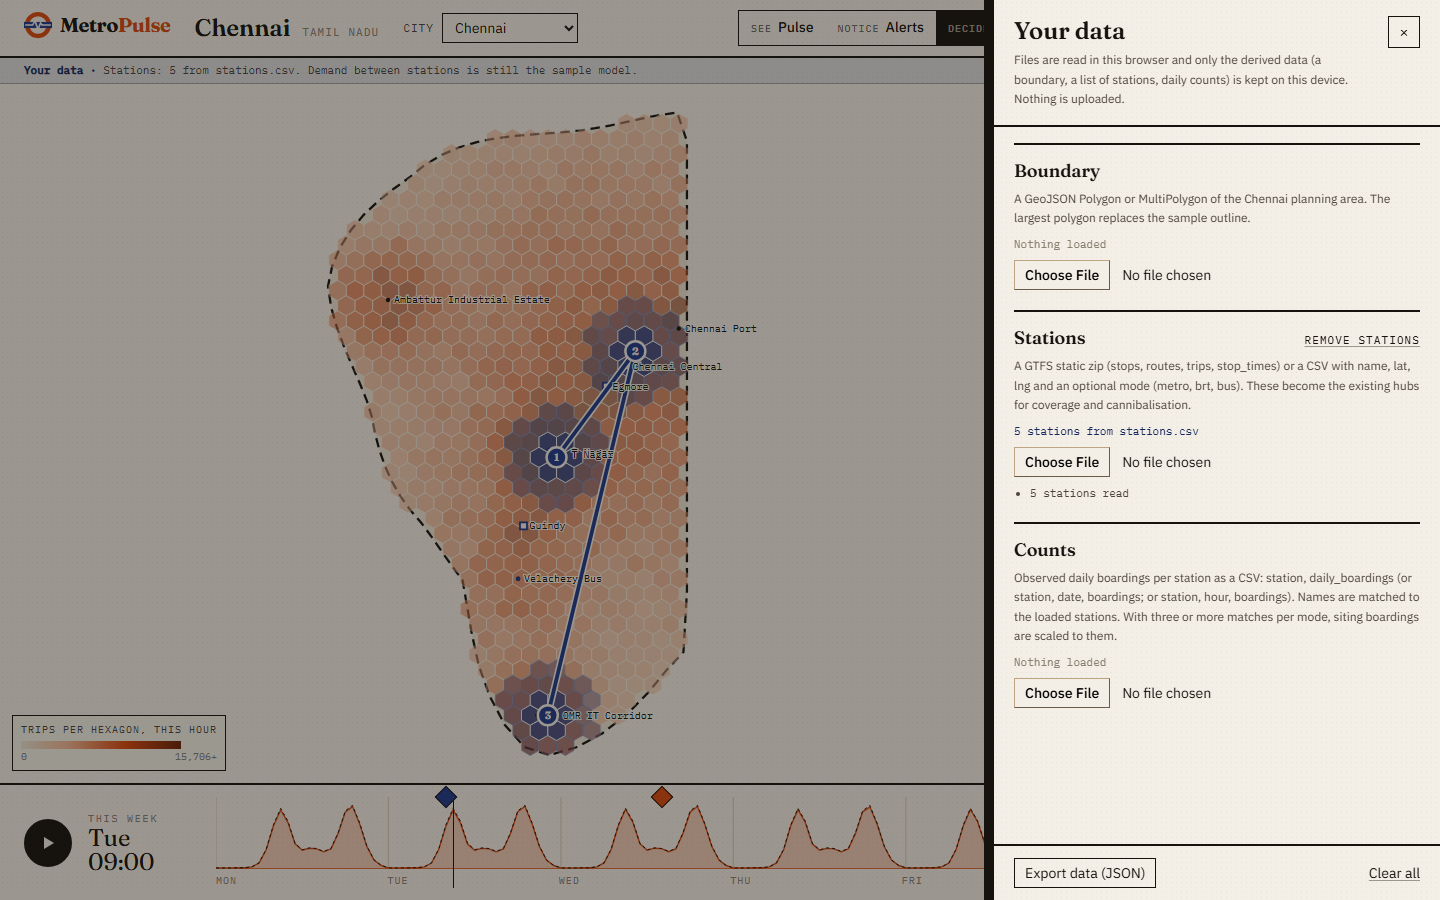
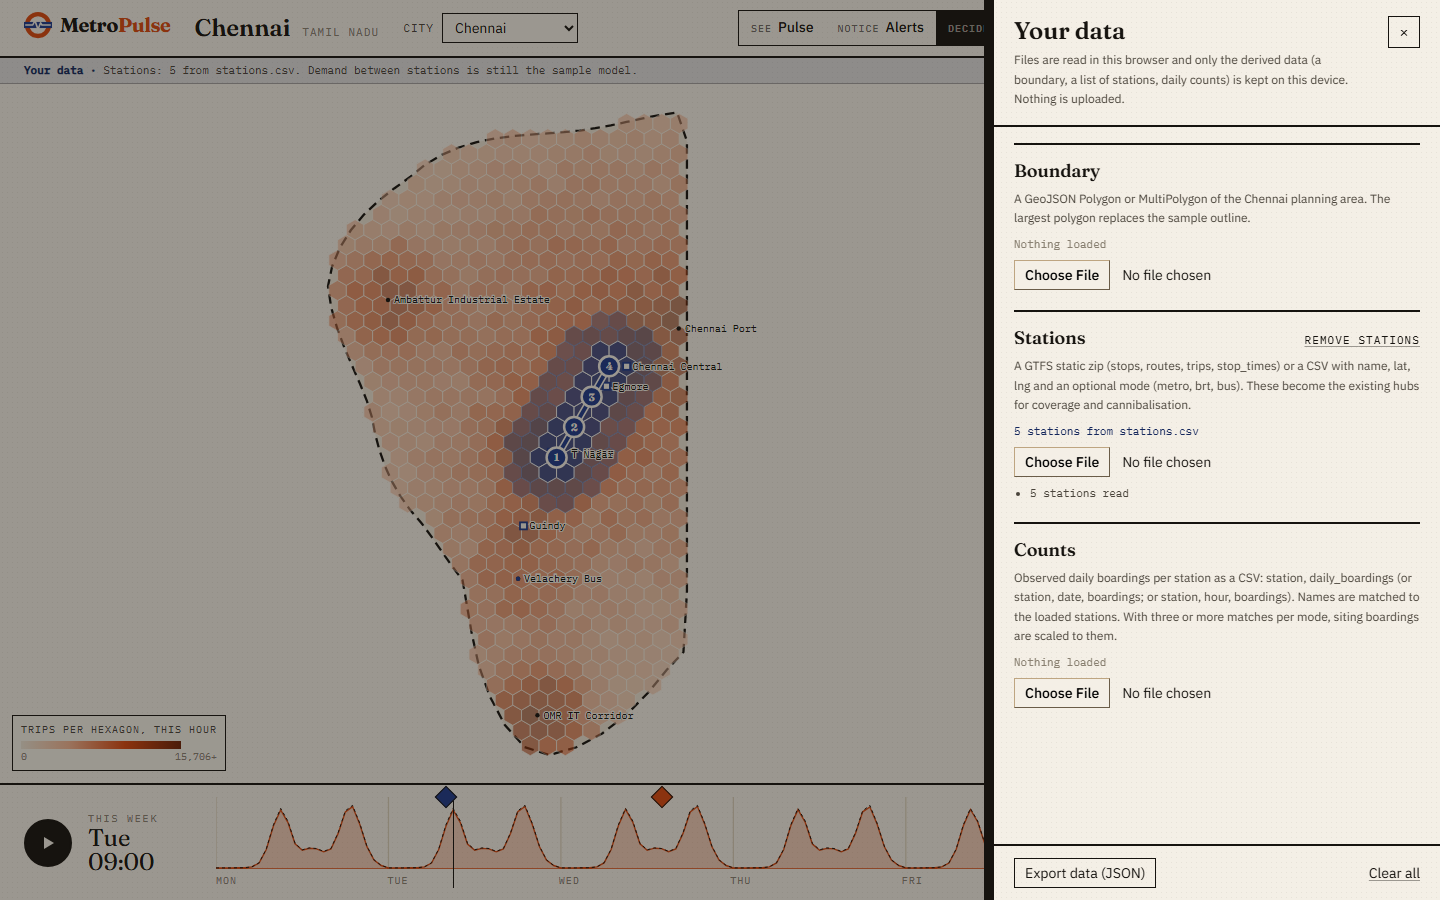
feat(scenario): corridor-constrained suggestion; close the review's minor findings (store sync, drawer races, calibration edge cases, GTFS route types, model cache bound, per-mode coverage, briefing link notice)

Changed region(s): [[0.3438, 0.3111, 0.5, 0.6222], [0.3438, 0.6222, 0.4375, 0.84]]

diff --git a/frontend/src/lib/pulse/scenario.ts b/frontend/src/lib/pulse/scenario.ts
@@ -13,7 +13,7 @@
  */
 import { getCity, hexDistanceKm, Point } from "./geo";
 import type { CityModel } from "./model";
-import { catchment, Coverage, existingCoverage, ModeId, MODES, scoreSite, SiteResult, Suggestion, walkCoverage } from "./siting";
+import { catchment, Coverage, existingCoverage, ModeId, MODES, scoreSite, SiteResult, Suggestion, suggestSites, walkCoverage } from "./siting";
 
 export type Alignment = "elevated" | "underground" | "at-grade";
 
@@ -212,6 +212,59 @@ export function decodeScenario(text: string, cityId: string, centre?: [number, n
 function cityCentre(cityId: string): [number, number] | null {
   const city = getCity(cityId);
   return city ? city.center : null;
+}
+
+/**
+ * A corridor, not a hub network: the first station is the best single site; each next station
+ * is the cell inside the spacing band of the previous one that adds the most new boardings,
+ * with coverage updated as the line grows. Stops early if no cell in the band adds anything.
+ */
+export function suggestCorridor(model: CityModel, modeId: ModeId, k = 4): Scenario {
+  const mode = MODES[modeId];
+  const [minKm, maxKm] = SPACING_KM[modeId];
+  const covered = new Float32Array(existingCoverage(model));
+  const picks: Point[] = [];
+  const first = suggestSites(model, modeId, 1, covered, model.calibration)[0];
+  if (first) {
+    const c = model.grid.cells[first.cell];
+    picks.push({ x: c.x, y: c.y });
+    const feeder = catchment(model.grid, c, mode.feederKm);
+    serve(covered, feeder.cells, feeder.weights);
+  }
+  while (picks.length > 0 && picks.length < k) {
+    const last = picks[picks.length - 1];
+    let best: Point | null = null;
+    let bestValue = 0;
+    for (const idx of model.grid.within(last.x, last.y, maxKm)) {
+      const c = model.grid.cells[idx];
+      const d = hexDistanceKm(last, c);
+      if (d < minKm || d > maxKm) continue;
+      if (picks.some((p) => hexDistanceKm(p, c) < minKm)) continue;
+      const v = scoreSite(model, c, modeId, covered, model.calibration).newBoardings;
+      if (v > bestValue) {
+        bestValue = v;
+        best = { x: c.x, y: c.y };
+      }
+    }
+    if (!best) break;
+    picks.push(best);
+    const feeder = catchment(model.grid, best, mode.feederKm);
+    serve(covered, feeder.cells, feeder.weights);
+  }
+  const now = new Date().toISOString();
+  return {
+    id: newScenarioId(),
+    cityId: model.city.id,
+    name: `Suggested ${mode.label.split(" ")[0].toLowerCase()} corridor`,
+    mode: modeId,
+    alignment: "elevated",
+    stations: picks.map((p) => {
+      const { lat, lng } = model.grid.unproject(p);
+      return { lat: Math.round(lat * 1e4) / 1e4, lng: Math.round(lng * 1e4) / 1e4 };
+    }),
+    createdAt: now,
+    updatedAt: now,
+  };
 }
 
 export function scenarioFromSuggestions(model: CityModel, modeId: ModeId, picks: Suggestion[]): Scenario {

diff --git a/frontend/src/components/desk/DataDrawer.tsx b/frontend/src/components/desk/DataDrawer.tsx
@@ -136,6 +136,9 @@ export function DataDrawer({ open, city, model, data, onChange, onClose }: Props
   const [reports, setReports] = useState<Partial<Record<SectionId, string[]>>>({});
   const [busy, setBusy] = useState<SectionId | null>(null);
   const panel = useRef<HTMLDivElement>(null);
+  // Uploads are async; a second file must build on whatever the first one produced.
+  const latest = useRef<CityData | null>(data);
+  latest.current = data;
 
   useEffect(() => {
     if (!open) return;
@@ -149,7 +152,7 @@ export function DataDrawer({ open, city, model, data, onChange, onClose }: Props
 
   if (!open) return null;
 
-  const base = (): CityData => data ?? { version: 1, cityId: city.id, loadedAt: new Date().toISOString() };
+  const base = (): CityData => latest.current ?? { version: 1, cityId: city.id, loadedAt: new Date().toISOString() };
 
   const apply = <T,>(id: SectionId, r: ParseResult<T>, build: (v: T) => Partial<CityData>) => {
     if (!r.ok) {
@@ -159,7 +162,9 @@ export function DataDrawer({ open, city, model, data, onChange, onClose }: Props
     }
     setErrors((e) => ({ ...e, [id]: undefined }));
     setReports((x) => ({ ...x, [id]: r.report }));
-    onChange({ ...base(), ...build(r.value), loadedAt: new Date().toISOString() });
+    const next: CityData = { ...base(), ...build(r.value), loadedAt: new Date().toISOString() };
+    latest.current = next;
+    onChange(next);
   };
 
   const load = async (id: SectionId, file: File) => {
@@ -285,8 +290,8 @@ export function DataDrawer({ open, city, model, data, onChange, onClose }: Props
                     </tr>
                   </thead>
                   <tbody className="tabular">
-                    {cal.matched.map((m) => (
-                      <tr key={m.station} className="border-t border-ink/15">
+                    {cal.matched.map((m, k) => (
+                      <tr key={`${k}-${m.station}`} className="border-t border-ink/15">
                         <td className="py-1 pr-2">{m.station}</td>
                         <td className="py-1 text-right">{fmtInt(m.observed)}</td>
                         <td className="py-1 text-right">{fmtInt(m.modelled)}</td>

diff --git a/frontend/src/lib/pulse/import/gtfs.ts b/frontend/src/lib/pulse/import/gtfs.ts
@@ -65,6 +65,11 @@ function normName(s: string): string {
   return s.toLowerCase().replace(/[^a-z0-9]+/g, " ").trim();
 }
 
+/** GTFS route_type, including the extended (Google) codes: rail and urban rail are metro, the rest feeder. */
+export function isRailRouteType(t: number): boolean {
+  return t === 1 || t === 2 || (t >= 100 && t <= 117) || (t >= 400 && t <= 404);
+}
+
 export function parseGtfsZip(bytes: Uint8Array, centre: [number, number]): ParseResult<Station[]> {
   let files: Record<string, Uint8Array>;
   try {
@@ -122,6 +127,7 @@ export function parseGtfsZip(bytes: Uint8Array, centre: [number, number]): Parse
   const [cLat, cLng] = centre;
   const kx = 111.32 * Math.cos((cLat * Math.PI) / 180);
   const kept: Station[] = [];
+  const byNorm = new Map<string, Station[]>();
   let far = 0;
   let merged = 0;
   let children = 0;
@@ -145,17 +151,19 @@ export function parseGtfsZip(bytes: Uint8Array, centre: [number, number]): Parse
     const types = new Set<number>();
     for (const id of [r[iId], ...(childrenOf.get(r[iId]) ?? [])]) for (const t of stopTypes.get(id) ?? []) types.add(t);
     const mode: ModeId =
-      types.size > 0 ? (types.has(1) || types.has(2) ? "metro" : "feeder") : /metro|station/i.test(name) ? "metro" : "feeder";
+      types.size > 0 ? (Array.from(types).some(isRailRouteType) ? "metro" : "feeder") : /metro|station/i.test(name) ? "metro" : "feeder";
     const key = normName(name);
-    const dup = kept.find(
-      (s) => normName(s.name) === key && Math.hypot((s.lng - lng) * kx, (s.lat - lat) * KM_PER_DEG_LAT) <= DUP_KM
-    );
+    const same = byNorm.get(key) ?? [];
+    const dup = same.find((s) => Math.hypot((s.lng - lng) * kx, (s.lat - lat) * KM_PER_DEG_LAT) <= DUP_KM);
     if (dup) {
       merged++;
       if (mode === "metro") dup.mode = "metro";
       continue;
     }
-    kept.push({ name, lat, lng, mode });
+    const station = { name, lat, lng, mode };
+    kept.push(station);
+    same.push(station);
+    byNorm.set(key, same);
   }
   if (kept.length === 0) return fail("No stations within 60 km of the city centre in stops.txt");
   const metro = kept.filter((s) => s.mode === "metro").length;

diff --git a/frontend/src/components/desk/DataDrawer.test.tsx b/frontend/src/components/desk/DataDrawer.test.tsx
@@ -1,4 +1,5 @@
-import { render, screen, waitFor, within } from "@testing-library/react";
+import React from "react";
+import { fireEvent, render, screen, waitFor, within } from "@testing-library/react";
 import userEvent from "@testing-library/user-event";
 import { getCity } from "@/lib/pulse/geo";
 import { buildCityModel } from "@/lib/pulse/model";
@@ -96,5 +97,21 @@ describe("dataStatus", () => {
       counts: { source: "c.csv", rows: loaded.hubs!.stations.map((s) => ({ station: s.name, dailyBoardings: 1000 })) },
     });
     expect(dataStatus(m)).toMatch(/^Stations: 3 from stations\.csv · Counts: 3 stations from c\.csv · Calibrated: metro on 3 stations \(×\d+\.\d\d\)$/);
+  });
+});
+
+describe("DataDrawer with two uploads in quick succession", () => {
+  function Stateful() {
+    const [data, setData] = React.useState<CityData | null>(null);
+    const model = buildCityModel(city, data);
+    return <DataDrawer open city={city} model={model} data={data} onChange={setData} onClose={() => {}} />;
+  }
+  it("keeps both sections", async () => {
+    render(<Stateful />);
+    const ring = JSON.stringify({ type: "Polygon", coordinates: [[[80.2, 13.0], [80.34, 13.0], [80.34, 13.16], [80.2, 13.16], [80.2, 13.0]]] });
+    fireEvent.change(screen.getByLabelText(/boundary file/i), { target: { files: [new File([ring], "b.geojson", { type: "application/json" })] } });
+    fireEvent.change(screen.getByLabelText(/stations file/i), { target: { files: [new File([stationsCsv], "stations.csv", { type: "text/csv" })] } });
+    await screen.findByText(/2 stations from stations\.csv/i);
+    await screen.findByText(/b\.geojson/i);
   });
 });

diff --git a/frontend/src/components/brief/Briefing.tsx b/frontend/src/components/brief/Briefing.tsx
@@ -43,9 +43,14 @@ export function Briefing({ cityId, scenario, scenarioId }: BriefingProps) {
   const city = getCity(cityId) ?? getCity("chennai")!;
   const [userData, setUserData] = useState<CityData | null>(null);
   const [line, setLine] = useState<Scenario | null>(scenario ?? null);
+  const [linkNotice, setLinkNotice] = useState(scenario === null ? "That shared line could not be read; showing the recommended sites instead." : "");
   useEffect(() => {
     setUserData(loadCityData(city.id));
-    if (scenarioId) setLine(getScenario(scenarioId, city.id));
+    if (scenarioId) {
+      const saved = getScenario(scenarioId, city.id);
+      setLine(saved);
+      if (!saved) setLinkNotice("That saved line is not on this device; showing the recommended sites instead.");
+    }
   }, [city.id, scenarioId]);
   const model = getCityModel(city, userData);
   const network = useMemo(() => (line && line.stations.length > 0 ? evaluateScenario(model, line) : null), [model, line]);
@@ -94,6 +99,11 @@ export function Briefing({ cityId, scenario, scenarioId }: BriefingProps) {
         </button>
       </div>
 
+      {linkNotice && (
+        <p role="status" className="no-print border-b border-signal bg-signal/10 px-4 py-1 font-mono text-[11px] text-signal-deep sm:px-8">
+          {linkNotice}
+        </p>
+      )}
       <article className="mx-auto max-w-[860px] px-5 py-8 sm:px-8">
         <header className="border-b-4 border-double border-ink pb-4">
           <div className="flex flex-wrap items-center justify-between gap-2">

diff --git a/frontend/src/components/desk/DeskApp.tsx b/frontend/src/components/desk/DeskApp.tsx
@@ -17,7 +17,7 @@ import { useDeskShortcuts } from "./useDeskShortcuts";
 import { cellDay, downloadText, incidentsToCsv } from "@/lib/pulse/export";
 import { CityData, clearCityData, loadCityData, saveCityData } from "@/lib/pulse/userdata";
 import { DataDrawer, dataStatus } from "./DataDrawer";
-import { encodeScenario, Scenario, scenarioFromSuggestions } from "@/lib/pulse/scenario";
+import { encodeScenario, Scenario, suggestCorridor } from "@/lib/pulse/scenario";
 import { useLineScenario } from "./useLineScenario";
 import { placeName } from "@/lib/pulse/placeName";
 
@@ -538,9 +538,8 @@ export function DeskApp({ initialCity, initialTab, initialIncident, initialSugge
               suggestions={suggestions}
               suggestionNames={suggestions.map((s) => placeName(model, model.grid.cells[s.cell]))}
               onSuggest={() => {
-                const picks = suggestSites(model, mode, 3, covered, model.calibration);
-                if (lineMode) lineApi.replace(scenarioFromSuggestions(model, mode, picks));
-                else setSuggestions(picks);
+                if (lineMode) lineApi.replace(suggestCorridor(model, mode, 4));
+                else setSuggestions(suggestSites(model, mode, 3, covered, model.calibration));
               }}
               onPickSuggestion={(k) => {
                 const c = model.grid.cells[suggestions[k].cell];

diff --git a/frontend/src/lib/pulse/scenario.test.ts b/frontend/src/lib/pulse/scenario.test.ts
@@ -10,6 +10,7 @@ import {
   Scenario,
   scenarioFromSuggestions,
   SPACING_KM,
+  suggestCorridor,
 } from "./scenario";
 
 const city = getCity("chennai")!;
@@ -121,5 +122,25 @@ describe("decodeScenario limits", () => {
     expect(decodeScenario(`m.e.${pts}`, "chennai")).toBeNull();
     const ok = Array.from({ length: 60 }, (_, k) => `13.${String(1000 + k).slice(1)},80.2341`).join(";");
     expect(decodeScenario(`m.e.${ok}`, "chennai")?.stations).toHaveLength(60);
+  });
+});
+
+describe("coverage by mode", () => {
+  it("a feeder line covers fewer residents than the same metro line", () => {
+    const metro = evaluateScenario(model, base([A, B]));
+    const feeder = evaluateScenario(model, base([A, B], { mode: "feeder" }));
+    expect(feeder.coverageAfter).toBeLessThan(metro.coverageAfter);
+    expect(feeder.coverageAfter).toBeGreaterThan(feeder.coverageNow);
+  });
+});
+
+describe("suggestCorridor", () => {
+  it("proposes k stations whose consecutive spacing is inside the band", () => {
+    const s = suggestCorridor(model, "metro", 4);
+    expect(s.stations).toHaveLength(4);
+    const r = evaluateScenario(model, s);
+    expect(r.spacingCompliance).toBe(1);
+    expect(s.name).toBe("Suggested metro corridor");
+    expect(r.boardings).toBeGreaterThan(0);
   });
 });

diff --git a/frontend/src/lib/pulse/model.test.ts b/frontend/src/lib/pulse/model.test.ts
@@ -1,5 +1,5 @@
 import { buildHexGrid, getCity, listCities, hexDistanceKm } from "./geo";
-import { buildCityModel, getCityModel, HOURS_PER_WEEK, dayHourLabel } from "./model";
+import { buildCityModel, getCityModel, HOURS_PER_WEEK, dayHourLabel, modelCacheSize } from "./model";
 
 describe("sample city catalogue", () => {
   it("ships all 30 configured cities", () => {
@@ -108,5 +108,20 @@ describe("city model with the user's own data", () => {
     expect(getCityModel(city)).toBe(getCityModel(city));
     expect(getCityModel(city, data)).toBe(getCityModel(city, data));
     expect(getCityModel(city, data)).not.toBe(getCityModel(city));
+  });
+});
+
+describe("model cache", () => {
+  it("keeps at most 8 data-keyed models", () => {
+    const city = getCity("chennai")!;
+    for (let k = 0; k < 10; k++) {
+      getCityModel(city, {
+        version: 1,
+        cityId: "chennai",
+        hubs: { source: `s${k}.csv`, stations: [{ name: `S${k}`, lat: 13.0827, lng: 80.2707 + k * 0.001, mode: "metro" }] },
+        loadedAt: "2026-11-03T00:00:00.000Z",
+      });
+    }
+    expect(modelCacheSize()).toBeLessThanOrEqual(8);
   });
 });

diff --git a/frontend/src/lib/pulse/calibrate.ts b/frontend/src/lib/pulse/calibrate.ts
@@ -48,12 +48,15 @@ export function calibrate(model: CityModel, counts: { station: string; dailyBoar
   const matched: Calibration["matched"] = [];
   const unmatched: string[] = [];
   const modelledCache = new Map<number, number>();
+  const seen = new Set<number>();
   for (const row of counts) {
     const k = byKey.get(normaliseStationName(row.station));
     if (k === undefined) {
       unmatched.push(row.station);
       continue;
     }
+    if (seen.has(k)) continue; // two rows naming the same station: the first one counts
+    seen.add(k);
     const hub = model.hubs[k];
     let modelled = modelledCache.get(k);
     if (modelled === undefined) {
@@ -73,6 +76,7 @@ export function calibrate(model: CityModel, counts: { station: string; dailyBoar
     stations[mode] = ratios.length;
     if (ratios.length < MIN_STATIONS) continue;
     const median = quantile(ratios, 0.5);
+    if (!(median > 0)) continue; // all-zero counts cannot calibrate a mode
     factor[mode] = median;
     iqr[mode] = median > 0 ? (quantile(ratios, 0.75) - quantile(ratios, 0.25)) / median : 0;
   }

diff --git a/frontend/src/components/desk/LinePanel.tsx b/frontend/src/components/desk/LinePanel.tsx
@@ -185,10 +185,11 @@ export function LinePanel(p: LinePanelProps) {
           onClick={p.onSuggest}
           className="w-full border-2 border-ink bg-ink px-3 py-2 text-sm font-semibold text-paper transition hover:border-supply hover:bg-supply focus:outline-none focus-visible:ring-2 focus-visible:ring-signal focus-visible:ring-offset-2 focus-visible:ring-offset-paper"
         >
-          Suggest a line
+          Suggest a corridor
         </button>
         <p className="mt-1 text-xs text-ink-soft">
-          Three greedy picks loaded as a line. Each pick counts only demand the earlier picks and existing hubs do not already serve.
+          Starts at the best single site, then adds up to three more stations, each inside the spacing band of the last and
+          chosen for the new boardings it adds once the stations before it are served.
         </p>
       </div>
 

diff --git a/frontend/src/lib/pulse/userdata.ts b/frontend/src/lib/pulse/userdata.ts
@@ -19,12 +19,15 @@ export interface CityData {
 
 const PREFIX = "metropulse.citydata.";
 const memory = new Map<string, string>();
+/** Keys whose last write did not reach storage (quota, policy): the memory copy is the truth. */
+const unsynced = new Set<string>();
 
 export function cityDataStorageKey(cityId: string): string {
   return `${PREFIX}${cityId}.v1`;
 }
 
 function read(key: string): string | null {
+  if (unsynced.has(key)) return memory.get(key) ?? null;
   try {
     const v = window.localStorage.getItem(key);
     if (v !== null) return v;
@@ -40,8 +43,9 @@ function write(key: string, value: string | null): void {
   try {
     if (value === null) window.localStorage.removeItem(key);
     else window.localStorage.setItem(key, value);
+    unsynced.delete(key);
   } catch {
-    /* blocked: memory copy already holds it */
+    unsynced.add(key);
   }
 }
 

diff --git a/frontend/src/lib/pulse/userdata.test.ts b/frontend/src/lib/pulse/userdata.test.ts
@@ -63,3 +63,17 @@ describe("describeCityData", () => {
     expect(describeCityData({ ...sample, boundary: undefined, counts: undefined })).toBe("Stations: 1 from gtfs.zip");
   });
 });
+
+describe("city data store after a failed save", () => {
+  it("serves the copy it accepted, not the stale stored one", () => {
+    saveCityData(sample);
+    const setItem = jest.spyOn(Storage.prototype, "setItem").mockImplementation(() => {
+      throw new Error("QuotaExceededError");
+    });
+    const newer = { ...sample, hubs: { source: "new.csv", stations: [] }, loadedAt: "2026-11-04T00:00:00.000Z" };
+    saveCityData(newer);
+    setItem.mockRestore();
+    expect(loadCityData("chennai")?.hubs?.source).toBe("new.csv");
+    clearCityData("chennai");
+  });
+});
